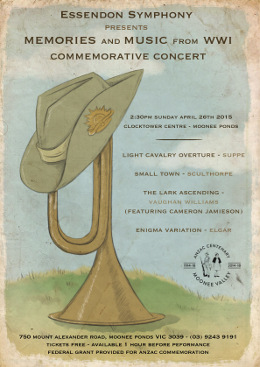
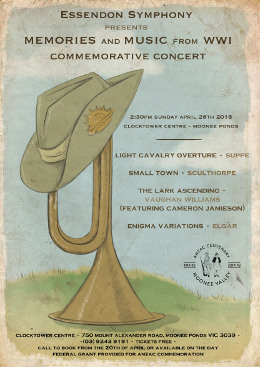
Updated text and poster for the Anzac concert

diff --git a/public_html/eso/upcoming-concerts.html b/public_html/eso/upcoming-concerts.html
@@ -79,7 +79,7 @@
           <div class="col-md-8">
             <h2>Next concert: Memories and Music from WWI</h2>
             <p>Sunday 26th April, 2:30pm</p>
-            <p><a href="http://www.clocktowercentre.com.au/">Clocktower Centre</a>, 750 Mt Alexander Rd, Moonee Ponds VIC 3039</p>
+            <p><a href="http://www.clocktowercentre.com.au/en/Whats-On/School-Community-and-Events/Essendon-Symphony-WWI-concert.aspx">Clocktower Centre</a>, 750 Mt Alexander Rd, Moonee Ponds VIC 3039</p>
             <p>This commemorative concert marks the centenary since World War I, and is full of luscious and moving music. We are also very fortunate to have Cameron Jamieson return to perform with us so soon again after wowing us during the Bruch Violin Concerto last year.</p>
             <p>Cameron Jamieson graduated in 2011 from the Queensland Conservatorium of Music with a Bachelor of Music in Advanced Violin Performance completing extensive studies with Michele Walsh. In 2012, Cameron moved to Melbourne to further his studies at the Australian National Academy of Music, with William Hennessy, and to work with the Melbourne Symphony Orchestra. His highlights include the MSO's re-opening of Hamer Hall with Mahler's Third symphony, premiering Paul Dean's Clarinet Quintet for Dame Elizabeth Murdoch, directing the ANAM orchestra for a piano concerto with Paavali Jumppanen, and the opening night of Quartetthaus.</p>
             <p>The concert will include:
@@ -89,6 +89,7 @@
               <li>Vaughan Williams - The Lark Ascending (featuring Cameron Jamieson)</li>
               <li>Elgar - Enigma Variations</li>
             </ul></p>
+            <p>You can also visit the <a href="https://www.facebook.com/events/1650977335137419/">Facebook page for the concert</a>.</p>
           </div>
         </div>
       </div>
@@ -101,8 +102,8 @@
           </div>
           <div class="col-md-8">
             <h3>Buy tickets</h3>
-            <p>Tickets to our next concert are free! However, we recommend arriving at the concert in plenty of time to ensure a good seat.</p>
-            <p>If you have special seating requirements, please let us know.</p>
+            <p>Tickets to our next concert are free! However, they do need to be booked - either in advance or available from the venue on the day.</p>
+            <p>Call <a href="tel:0392439191">03 9243-9191</a> to book from the 20th April. Tickets for this event cannot be booked online.</p>
           </div>
         </div>
       </div>
